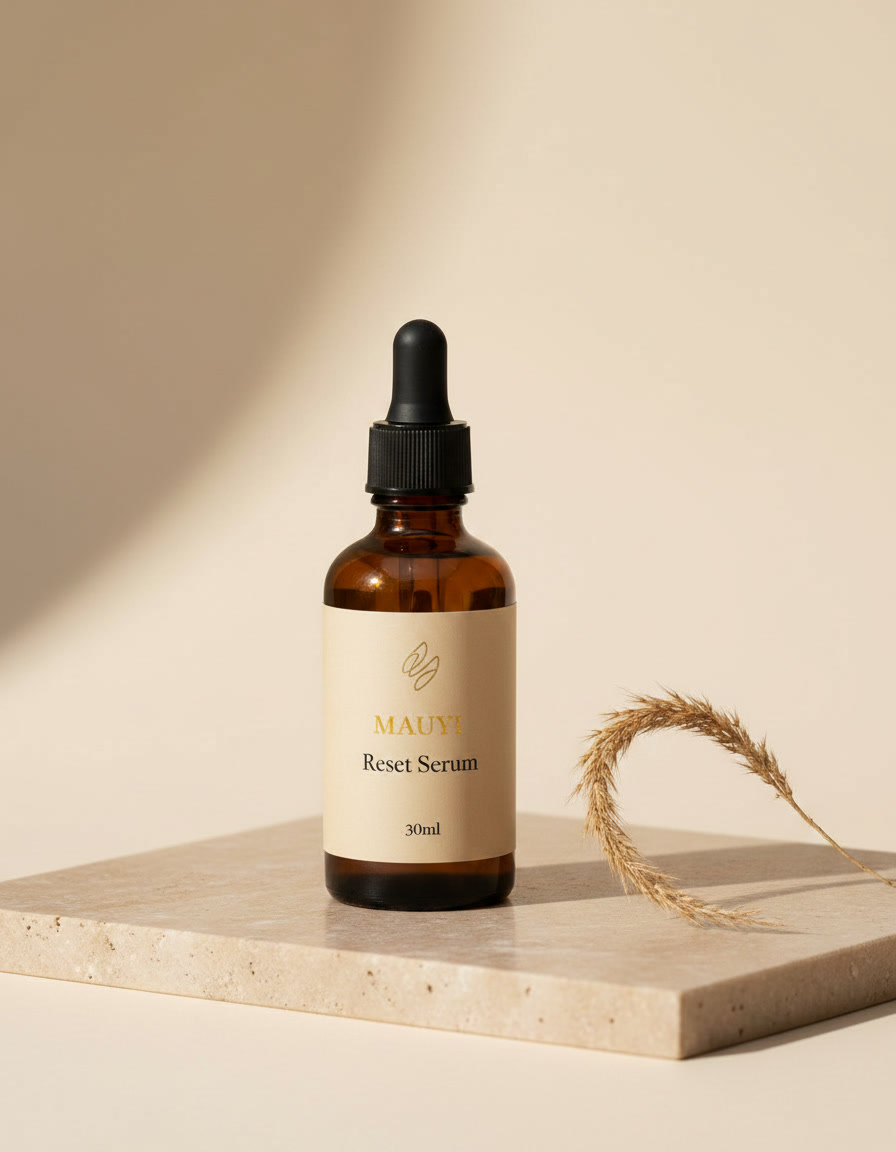
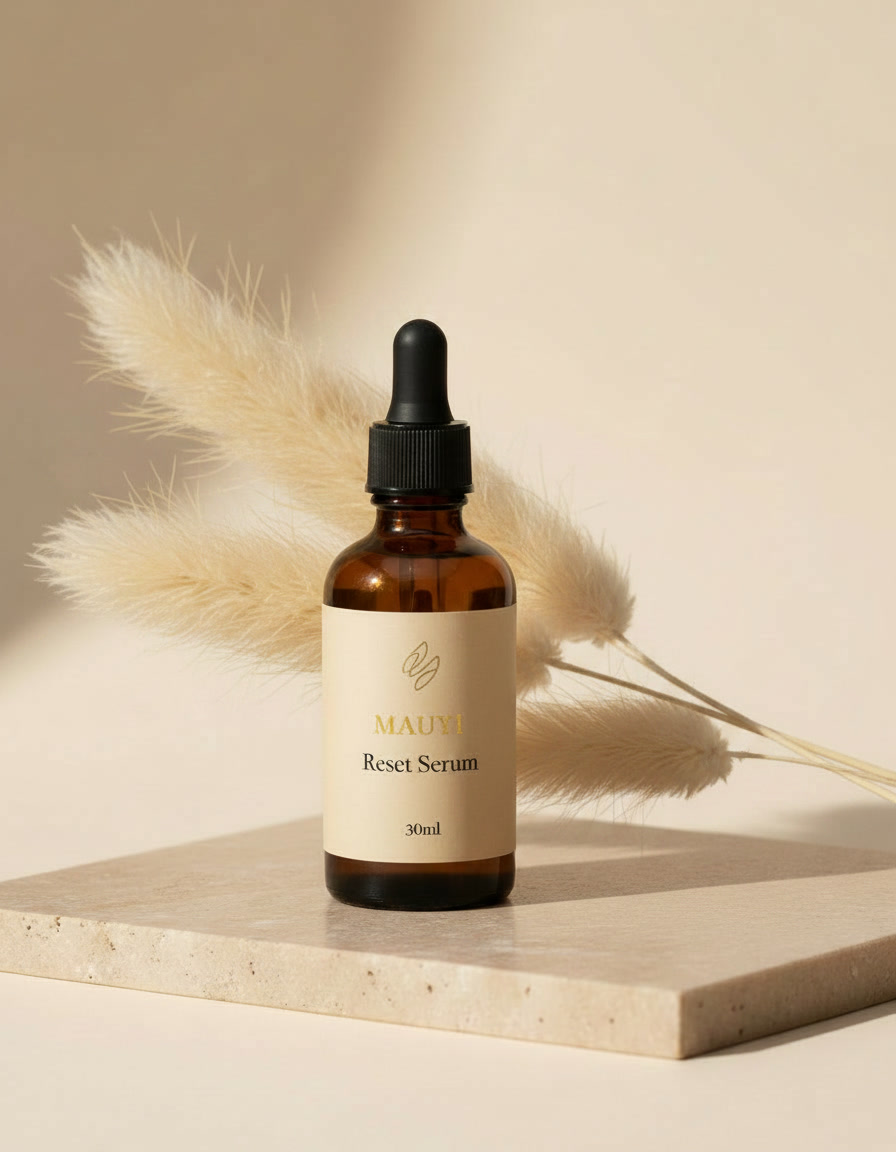
Replace hero reset-serum photo with pampas grass version, fix journal image bug

Changed region(s): [[0.5, 0.375, 1.0, 0.8125], [0.0312, 0.1875, 0.4375, 0.5938], [0.4375, 0.625, 0.4688, 0.6562]]

diff --git a/components/JournalPageContent.tsx b/components/JournalPageContent.tsx
@@ -49,7 +49,7 @@ const articles = [
     category: 'Filosofie',
     readTime: '7 min',
     date: 'Maart 2026',
-    image: '/quiet-cleanser.jpg&fit=crop',
+    image: '/quiet-cleanser.jpg',
   },
   {
     slug: 'niacinamide-alles-over',